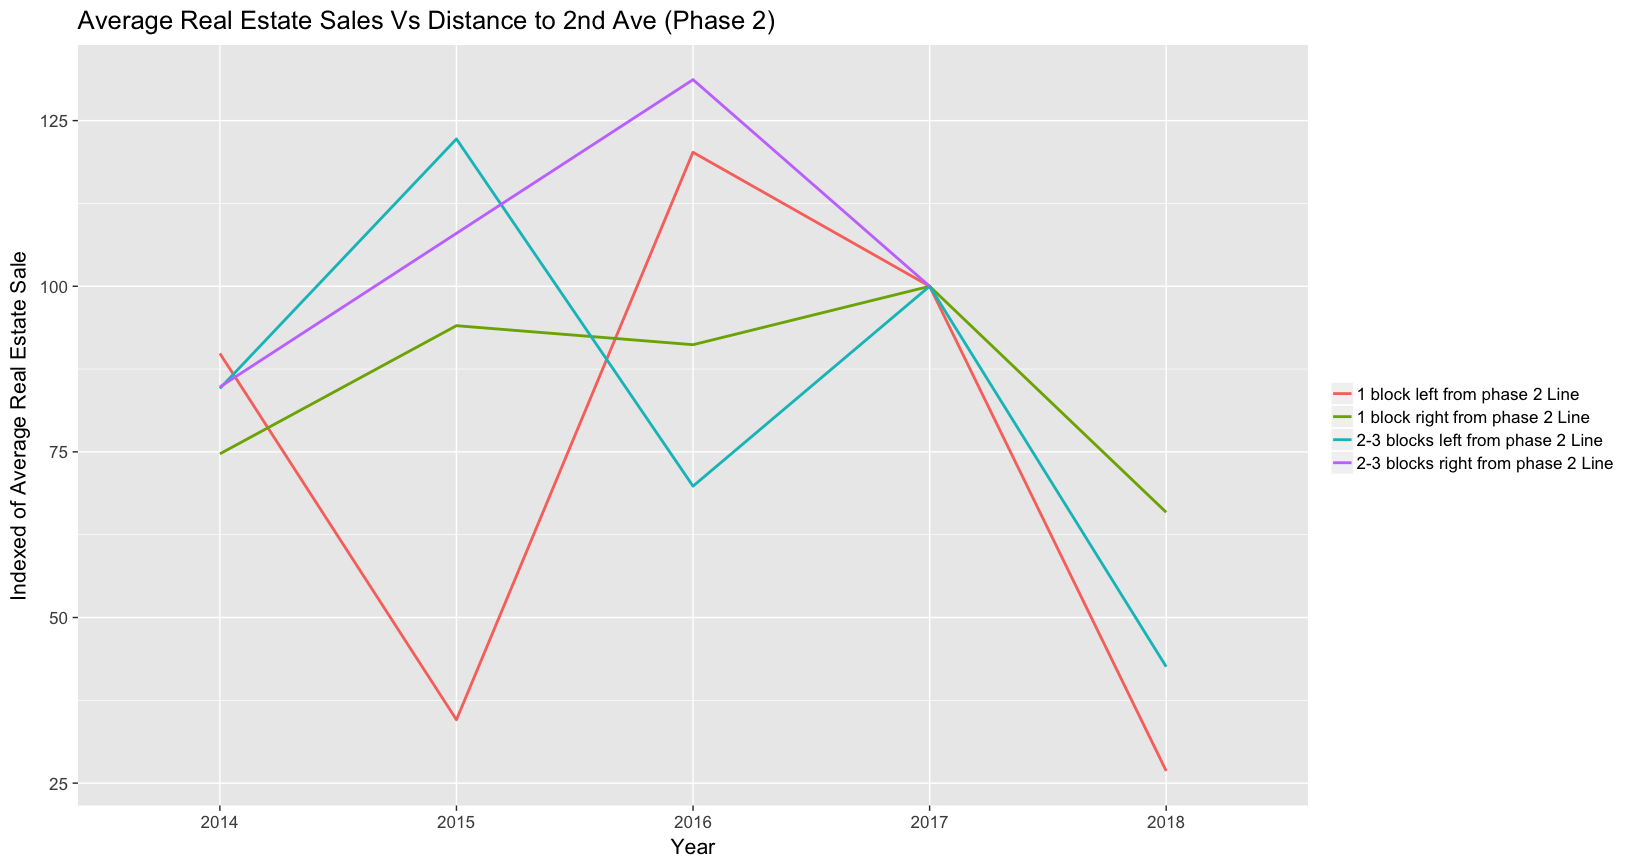
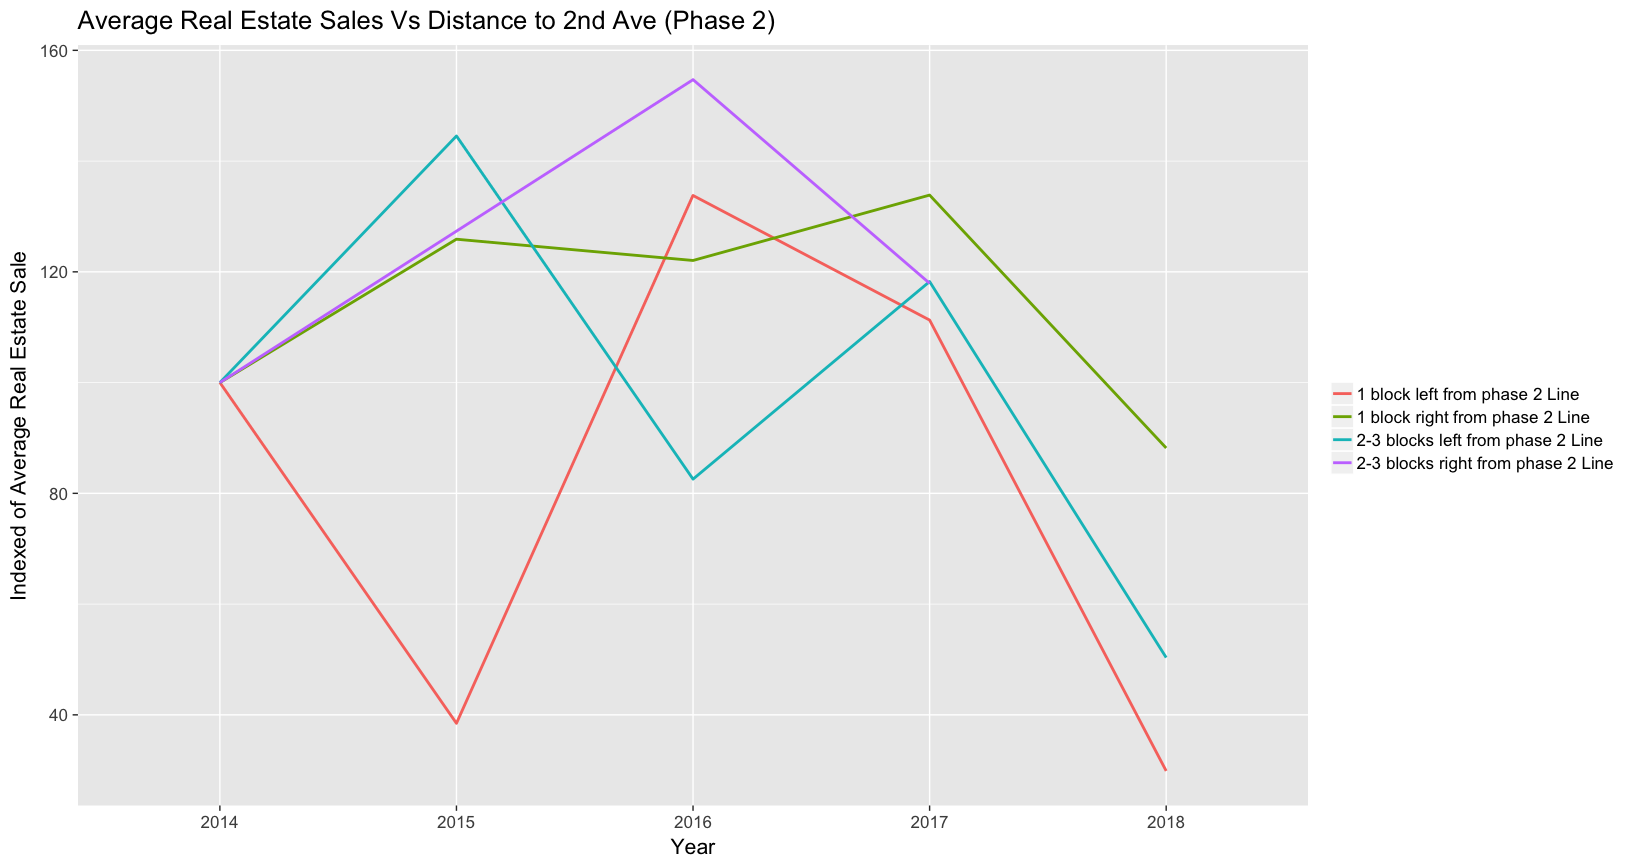
knit

diff --git a/EDA-Real_State_Sales.html b/EDA-Real_State_Sales.html
@@ -383,6 +383,14 @@ ggplot(data_phase1_right_edited, aes(x= year_factor, y = index, group = Distance
 <p>From the Building Permits observation, we think that locations that are three/four blocks right from the Second Avenue line may always be a popular area because buildings there have a water view.</p>
 <div id="analysis-of-market-values-for-phase-2" class="section level5">
 <h5><strong>Analysis of Market Values for Phase 2</strong></h5>
+<p>For Phase 2, we’re using a similar approach as Phase 1. We’ve gathered distance of blocks away from the line of the real estate sales and plotted out the average price sold for these locations. Our methodology is seen below and is similar to our methods in building permits.</p>
+<p>Again, we have determined the following 4 categories:</p>
+<ol style="list-style-type: decimal">
+<li>block numbers that are within 1 block to the left;</li>
+<li>block numbers that are within 1 block to the right;</li>
+<li>block numbers that are within 2-3 blocks to the left; and</li>
+<li>block numbers that are within 2-3 blocks to the right; from the 2nd Ave Line</li>
+</ol>
 <pre class="r"><code>data_phase2_1718 &lt;- data_ues_1718 %&gt;%
   mutate(Distance = ifelse(data_ues_1718$BLOCK %in% c(1654:1656, 1665:1667,1788:1791,1647:1652,1659:1662,
                                         1783:1787), &#39;1 block left from phase 2 Line&#39;,
@@ -404,7 +412,10 @@ data_phase2_1416 &lt;- data_ues %&gt;%
                           ifelse(data_ues$block %in% c(1691,1693:1696,1699:1705,1708:1711,1713,1715:1716,                                    1806:1808,1815,1816,1811,1813),
                                  &#39;2-3 blocks right from phase 2 Line&#39;,
                                  &#39;other&#39;)))))</code></pre>
-<pre class="r"><code>#First, summarize by Year and Distance:
+<p>From our graph below, the patterns are a bit inconclusive as the subway line has not opened yet. One block left of the subway line has been having the most fluctuation in prices as it dropped down to index 45 in 2015 and went back up in 2016, then down again. Two/Three blocks from the right was doing slightly better in 2016, but dipped again with the rest of the real estate sales.</p>
+<pre class="r"><code>#library(dplyr)
+
+#First, summarize by Year and Distance:
 data_phase2_1416_edited &lt;- data_phase2_1416 %&gt;% 
   group_by(year, Distance) %&gt;% 
   summarise(Mean = mean(price, na.rm=TRUE)) %&gt;%
@@ -412,30 +423,34 @@ data_phase2_1416_edited &lt;- data_phase2_1416 %&gt;%
 
 data_phase2_1416_edited$year &lt;- as.numeric(data_phase2_1416_edited$year)
 
-data_phase2_1718_edited1718 &lt;- data_phase2_1718 %&gt;%
+data_phase2_1718_edited &lt;- data_phase2_1718 %&gt;%
   group_by(year, Distance) %&gt;%
   summarise(Mean = mean(price, na.rm=TRUE)) %&gt;%
   arrange(year)
 
 year_factor &lt;- factor(data_phase2_1416_edited$year)
 
-data_phase2 = rbind(data_phase2_1718_edited1718, data_phase2_1416_edited)
+#colnames(data_phase2_1718_edited)[colnames(data_phase2_1718_edited) == &quot;YEAR&quot;] &lt;- &#39;year&#39;
+
+data_phase2_edited = rbind(data_phase2_1416_edited, data_phase2_1718_edited)
+
 
 #Now, scale the data and create an index to visualize variations over time, then plot:
-data_phase2 &lt;- data_phase2 %&gt;% group_by(Distance) %&gt;%
+data_phase2_edited &lt;- data_phase2_edited %&gt;% group_by(Distance) %&gt;%
   filter(Distance != &quot;other&quot;) %&gt;%
   mutate(index = 100*Mean/Mean[1]) %&gt;% ungroup()
 
-year_factor &lt;- factor(data_phase2$year)
+year_factor &lt;- factor(data_phase2_edited$year)
 
 #Plot time series:
-ggplot(data_phase2, aes(x= year_factor, y = index, group = Distance, color = Distance)) + 
+ggplot(data_phase2_edited, aes(x= year_factor, y = index, group = Distance, color = Distance)) + 
   geom_line(stat=&#39;identity&#39;, lwd = 1) +
     ggtitle(&quot;Average Real Estate Sales Vs Distance to 2nd Ave (Phase 2)&quot;) +
     labs (x = &quot;Year&quot;, y = &quot;Indexed of Average Real Estate Sale&quot;) +
     theme_grey(16) +
     theme(legend.title = element_blank()) </code></pre>
 <p><img src="EDA-Real_State_Sales_files/figure-html/unnamed-chunk-9-1.png" /><!-- --></p>
+<p><strong>Conclusions:</strong> From our observation on the Phase 2 line, it’s hard to predict how fast the real estate prices around these subway lines would respond to the constructions of the Second Avenue line. Since the lines haven’t been built, the growth/decline of the real estate around Phase 2 area is not as defined as the areas in Phase 1. Hence, we’d get a better idea once we’re closer to the finishing of the Phase 2 areas.</p>
 </div>
 </div>
 </div>

diff --git a/Analysis_of_Data_Quality.html b/Analysis_of_Data_Quality.html
@@ -263,7 +263,7 @@ visna(permits_upper_east)</code></pre>
 <h3>Real State Sales</h3>
 <p><em>Provide a detailed, well-organized description of data quality, including textual description, graphs, and code</em></p>
 <p>In the real estate data, we are able to find all of the sales transaction in New York City since 2003. Because the relevancy of the new subway line and the size of the real estate dataset, we’ve narrowed down the dataset down from 2014 to early 2018, which is a few years right before the Q line had opened to today, and to the surrounding zip codes near the phase 1 Q line. This dataset also includes different types of real estate assets, such as a commercial property and apartment units. As these two assets are not comparable, we’ve narrowed it down to apartment units, which is where tax class is 2.</p>
-<p>We know that price is likely the biggest indicator to the effects of the Q line on the real estate market, we begin by looking at a boxplot of all of the prices in zip codes 10065,10021, 10075, 10028 ,10029. As shown below, we can see that prices are highly skewed and have many outliers.</p>
+<p>We know that price is likely the biggest indicator to the effects of the Q line on the real estate market, we begin by looking at a boxplot of all of the prices in zip codes 10065,10021, 10075, 10128, 10028 ,10029. As shown below, we can see that prices are highly skewed and have many outliers.</p>
 <pre class="r"><code>library(&quot;readxl&quot;)
 library(reshape)
 #install.packages(&#39;RSQLite&#39;)
